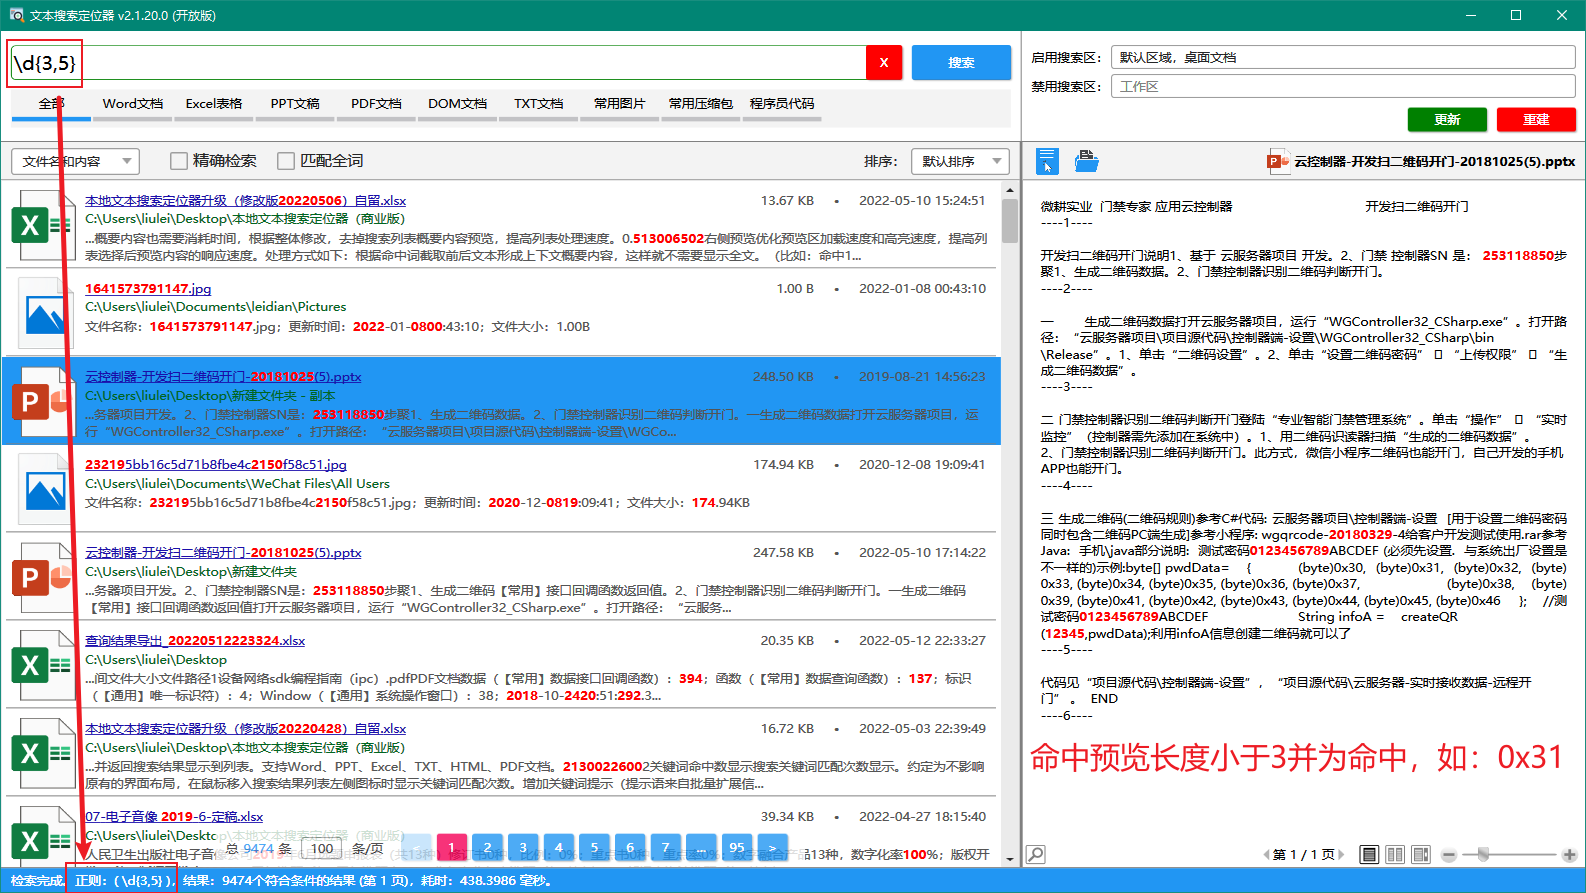
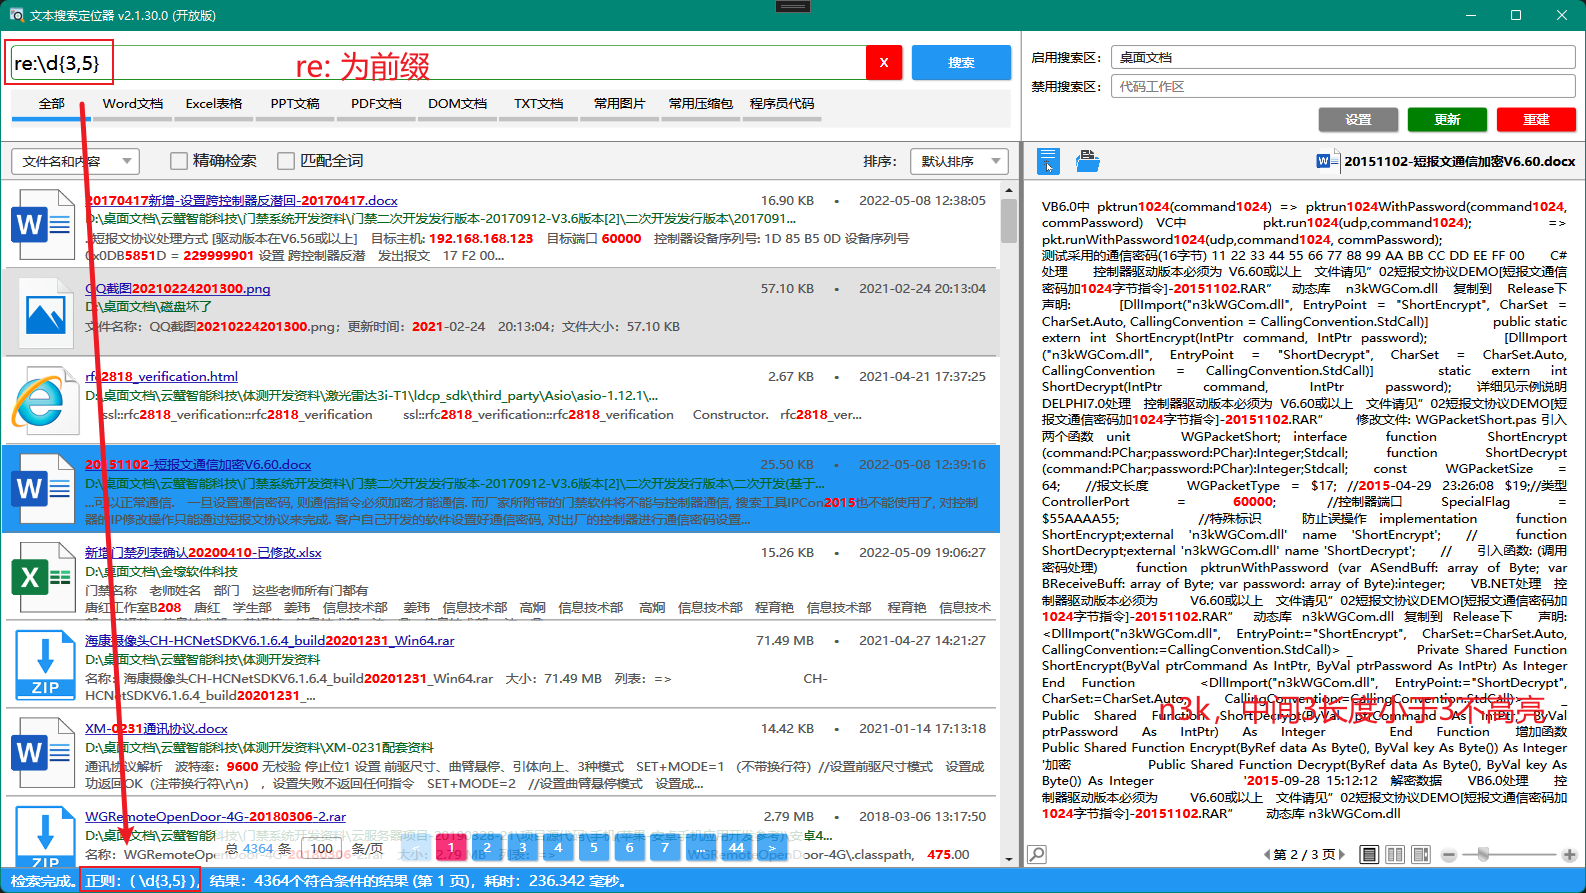
新增re:常量定义

diff --git a/TextLocator/Index/IndexCore.cs b/TextLocator/Index/IndexCore.cs
@@ -651,7 +651,7 @@ namespace TextLocator.Index
                 {
                     // 1、---- 关键词
                     string keyword = param.Keywords[i];
-                    text += keyword + ",";
+                    text += keyword.Replace(AppConst.REGEX_SEARCH_PREFIX, "") + ",";
 
                     // 2、---- 搜索域
                     bool hasFileName = param.SearchRegion == SearchRegion.文件名和内容 || param.SearchRegion == SearchRegion.仅文件名;
@@ -659,11 +659,11 @@ namespace TextLocator.Index
 
                     // 3.1、---- 关键词正则 或 标记为正则
                     //if (AppConst.REGEX_JUDGMENT.IsMatch(keyword))
-                    if (keyword.StartsWith("re:"))
+                    if (keyword.StartsWith(AppConst.REGEX_SEARCH_PREFIX))
                     {
                         keywordType = "正则";
 
-                        string reg = keyword.Replace("re:", "");
+                        string reg = keyword.Replace(AppConst.REGEX_SEARCH_PREFIX, "");
                         // 文件名搜索
                         if (hasFileName)
                         {
@@ -835,7 +835,7 @@ namespace TextLocator.Index
                         string keyword = param.Keywords[0];
 
                         param.Keywords = new List<string>();
-                        param.Keywords.Add(keyword.Replace("re:", ""));
+                        param.Keywords.Add(keyword.Replace(AppConst.REGEX_SEARCH_PREFIX, ""));
                         fileInfo.Keywords = param.Keywords;
                     }*/
 
@@ -932,10 +932,10 @@ namespace TextLocator.Index
                 {
                     if (string.IsNullOrEmpty(keyword)) continue;
                     // 关键词是正则表达式
-                    if (keyword.StartsWith("re:"))
+                    if (keyword.StartsWith(AppConst.REGEX_SEARCH_PREFIX))
                     //if (AppConst.REGEX_JUDGMENT.IsMatch(keyword))
                     {
-                        string reg = keyword.Replace("re:", "");
+                        string reg = keyword.Replace(AppConst.REGEX_SEARCH_PREFIX, "");
                         Regex regex = new Regex(reg, RegexOptions.IgnoreCase);
                         Match matches = regex.Match(content);
                         if (matches.Success)

diff --git a/TextLocator/Util/FileContentUtil.cs b/TextLocator/Util/FileContentUtil.cs
@@ -83,9 +83,9 @@ namespace TextLocator.Util
                         string text = position.GetTextInRun(LogicalDirection.Forward);
                         // 关键词匹配查找
                         string reg = keyword;
-                        if (keyword.StartsWith("re:"))
+                        if (keyword.StartsWith(AppConst.REGEX_SEARCH_PREFIX))
                         {
-                            reg = keyword.Replace("re:", "");
+                            reg = keyword.Replace(AppConst.REGEX_SEARCH_PREFIX, "");
                         }
                         Regex regex = new Regex(reg, RegexOptions.IgnoreCase);
                         Match matches = regex.Match(text);
@@ -167,9 +167,9 @@ namespace TextLocator.Util
             foreach (string keyword in keywords)
             {
                 string reg = keyword;
-                if (keyword.StartsWith("re:"))
+                if (keyword.StartsWith(AppConst.REGEX_SEARCH_PREFIX))
                 {
-                    reg = keyword.Replace("re:", "");
+                    reg = keyword.Replace(AppConst.REGEX_SEARCH_PREFIX, "");
                 }
                 // 定义关键词正则
                 Regex regex = new Regex(reg, RegexOptions.IgnoreCase);

diff --git a/TextLocator/Core/AppConst.cs b/TextLocator/Core/AppConst.cs
@@ -123,6 +123,10 @@ namespace TextLocator.Core
         public static readonly Regex REGEX_CONTENT_PAGE = new Regex(@"----\d+----");
 
         /// <summary>
+        /// 正则搜索前缀
+        /// </summary>
+        public const string REGEX_SEARCH_PREFIX = "re:";
+        /// <summary>
         /// 索引写入器
         /// </summary>
         public const int INDEX_PARTITION_COUNT = 5;

diff --git a/TextLocator/MainWindow.xaml.cs b/TextLocator/MainWindow.xaml.cs
@@ -1436,7 +1436,7 @@ namespace TextLocator
             }
             // 正则表达式
             //else if (AppConst.REGEX_JUDGMENT.IsMatch(searchText))
-            else if (searchText.StartsWith("re:"))
+            else if (searchText.StartsWith(AppConst.REGEX_SEARCH_PREFIX))
             {
                 keywords.Add(searchText);
             }
